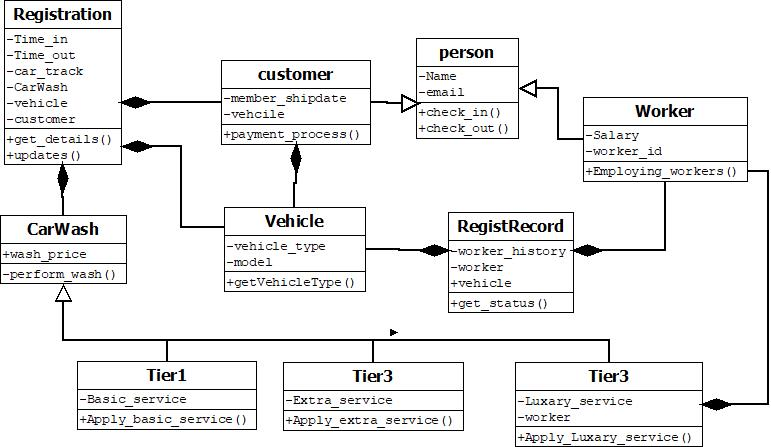
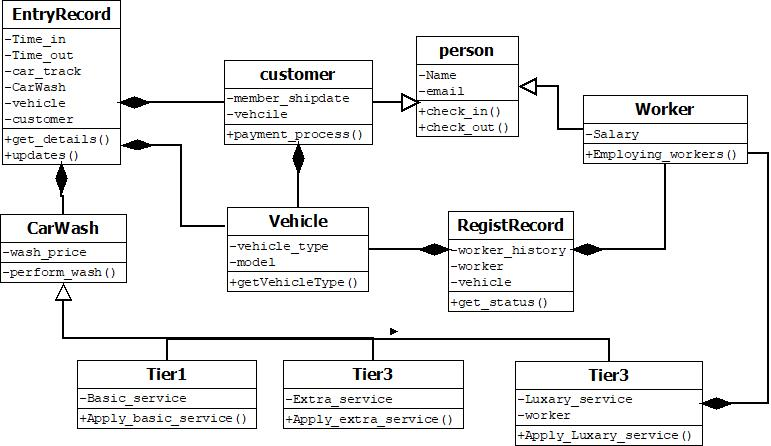
changes updated

diff --git a/carwash.py b/carwash.py
@@ -1,48 +1,14 @@
-from worker import Worker
+# CarWash class
 class CarWash:
     def __init__(self, wash_price):
         self.wash_price = wash_price
 
     def perform_wash(self):
-        if self.wash_price == 100:
-            return "Rs.100 for soap only"
-        elif self.wash_price == 200:
-            return "Rs.200 for soap and polish"
-        elif self.wash_price == 500:
-            return "Rs.500 for soap, polish, and inner clean"
-        else:
-            return "Invalid amount"
+        return (f"100 Rs. for basic wash, "
+                f"200 Rs. for extra wash, "
+                f"500 Rs. for luxury wash")
 
-class Tier1(CarWash):
-    def __init__(self, wash_price):
-        super().__init__(wash_price)
-
-    def apply_basic_service(self):
-        if self.wash_price == 100:
-            return "Applying soap only wash"
-        else:
-            return "Invalid amount"
-
-class Tier2(CarWash):
-    def __init__(self, wash_price):
-        super().__init__(wash_price)
-
-    def apply_extra_service(self):
-        if self.wash_price == 200:
-            return "Applying soap and polish wash"
-        else:
-            return "Invalid amount"
-
-class Tier3(CarWash):
-    def __init__(self, wash_price, worker):
-        super().__init__(wash_price)
-        self.worker = worker  # Has-a Worker
-
-    def apply_luxury_service(self):
-        if self.wash_price == 500:
-            return f"Applying soap, polish, and inner clean wash by {self.worker.get_worker_details()}"
-        else:
-            return "Invalid amount"
+        
 
 
 

diff --git a/worker.py b/worker.py
@@ -1,28 +1,26 @@
-from regist_record import RegistRecord
+from person import Person
 
-class Worker:
-    workers_list = []
-
-    def __init__(self, worker_id, salary, position):
-        self.worker_id = worker_id
+# Worker class
+class Worker(Person):
+    def __init__(self, name, email, salary):
+        super().__init__(name, email)
         self.salary = salary
-        self.position = position
-        self.regist_record = RegistRecord()  # Initialize RegistRecord
-        self.regist_record.add_record(position)
-        Worker.add_worker(self)
+        self.history = []
 
-    @classmethod
-    def add_worker(cls, worker):
-        cls.workers_list.append(worker)
+    def get_detail(self):
+        return f"{self.name} and email: {self.email} and salary: {self.salary}"
 
-    def change_position(self, new_position):
-        self.regist_record.add_record(new_position)
+    def employing_worker(self, position):
+        self.history.append(position)
+        return f"Position {position} added to history."
 
-    def display_details(self):
-        return (f"Worker ID: {self.worker_id}, Salary: {self.salary}, ")
-                #f"Position: {self.position}, {self.regist_record.get_status()}")
+    def show_history(self):
+        if self.history:
+            return f"Position History: {', '.join(self.history)}"
+        else:
+            return "No position history available"
 
-    def display_full_history(self):
-        return self.regist_record.show_history()
+
+
     
 

diff --git a/entryrecord.py b/entryrecord.py
@@ -1,14 +1,15 @@
+from customer import Customer
 from vehicle import Vehicle
 from carwash import CarWash
-from customer import Customer
 
+# EntryRecord class
 class EntryRecord:
-    def __init__(self, time_in, time_out, car_wash: CarWash, customer: Customer, vehicle: Vehicle):
+    def __init__(self, time_in, time_out, wash_price, membership_date, vehicle_type, model):
         self.time_in = time_in
         self.time_out = time_out
-        self.car_wash = car_wash  # Has-a CarWash
-        self.customer = customer  # Has-a Customer
-        self.vehicle = vehicle  # Has-a Vehicle
+        self.car_wash = CarWash(wash_price)
+        self.customer = Customer("John Doe", "john.doe@example.com", membership_date, vehicle_type, model)
+        self.vehicle = Vehicle(vehicle_type, model)
 
     def update(self, time_in, time_out):
         self.time_in = time_in
@@ -16,7 +17,11 @@ class EntryRecord:
         return f"Time In: {self.time_in}, Time Out: {self.time_out} updated"
 
     def get_details(self):
-        return (f"Check IN: {self.time_in}, Time Out: {self.time_out}, "
+        return (f"Check IN: {self.time_in}, Check OUT: {self.time_out}, "
                 f"{self.customer.get_customer_details()}, "
                 f"{self.vehicle.get_vehicle_details()}, "
                 f"Wash Details: {self.car_wash.perform_wash()}")
+
+
+
+

diff --git a/main.py b/main.py
@@ -1,22 +1,18 @@
-# main.py
-from vehicle import Vehicle
-from customer import Customer
-from carwash import Tier3
 from worker import Worker
+from tier1 import Tier1
+from tier2 import Tier2
+from tier3 import Tier3
 from entryrecord import EntryRecord
 
-# examples uses
 if __name__ == "__main__":
-    # Creating objects
-    vehicle = Vehicle("Hybrid", "2024")
-    customer = Customer("Ali", "haider2@gmail.com", "11-11-2023", vehicle)
-    worker = Worker(123, 88000, "Accountant")
-    car_wash = Tier3(500, worker)
-    entry = EntryRecord("10:00 AM", "11:00 AM", car_wash, customer, vehicle)
-    worker1 = Worker(234, 33000, "Manager")
+    worker = Worker("Abdullah", "abdullah@example.com", 3000)
+    tier1 = Tier1(basic_service=100)
+    tier2 = Tier2(extra_service=200)
+    tier3 = Tier3(500, name="Abdullah", email="haider@122",salary=5500)
+    entry_record = EntryRecord("09:00 AM", "10:00 AM", 500, "2024-01-01", "Sedan", "Model X")
 
-    # Output details
-    print(entry.get_details())
-    print(worker1.display_details())
-    print(worker1.display_full_history())
-
+    print(worker.get_detail())
+    print(tier1.perform_wash())
+    print(tier2.perform_wash())
+    print(tier3.perform_wash())
+    print(entry_record.get_details())

diff --git a/regist_record.py b/regist_record.py
@@ -1,19 +1,27 @@
+from vehicle import Vehicle
+from worker import Worker
+
 class RegistRecord:
-    def __init__(self):
-        # Store the history and positions
+    def __init__(self, vehicle_type,model,salary,id):
         self.history = []
+        self.vehicle = Vehicle(vehicle_type,model) 
+        self.worker = Worker(salary,id)    
 
     def add_record(self, position):
         self.history.append(position)
+        return (f"your current position is Added {self.history} ")
 
     def get_status(self):
         if self.history:
-            return f"Current Position: {self.history[-1]}"  # Last added position is the current one
+            return f"Current Position: {self.history[-1]}"  # Last added is the current position
         else:
             return "No position assigned"
 
     def show_history(self):
         if self.history:
-            return f"Position History: {', '.join(self.history)}"
+            return f"Position History: {', '.join(self.history)},{self.worker.display_details()}"
         else:
             return "No position history available"
+
+       
+

diff --git a/customer.py b/customer.py
@@ -1,18 +1,19 @@
-# customer.py
 from person import Person
 from vehicle import Vehicle
 
+# Customer class
 class Customer(Person):
-    def __init__(self, name, email, membership_date, vehicle=None):
+    def __init__(self, name, email, membership_date, vehicle_type, model):
         super().__init__(name, email)
         self.membership_date = membership_date
-        self.vehicle = vehicle
-    
+        self.vehicle = Vehicle(vehicle_type, model)
+
     def payment_process(self, amount):
         return f"{self.name}, your final amount is {amount}"
-    
+
     def get_customer_details(self):
-        # Correct method call
-        vehicle_details = self.vehicle.get_vehicle_details() if self.vehicle else "No vehicle assigned"
-        return (f"Name: {self.name}  Email: {self.email}  Membership Date: {self.membership_date}  Vehicle: {vehicle_details}")
+        return (f"Name: {self.name}, Email: {self.email}, "
+                f"Membership Date: {self.membership_date}, "
+                f"Vehicle: {self.vehicle.get_vehicle_details()}")
+
 

diff --git a/vehicle.py b/vehicle.py
@@ -1,15 +1,3 @@
-# # vehicle.py
-# class Vehicle:
-#     def __init__(self, vehicle_type, model):
-#         self.vehicle_type = vehicle_type
-#         self.model = model
-
-#     def get_vehicle_details(self):
-#         return f"Your vehicle type is: '{self.vehicle_type}'  and model number is:'{self.model}'"
-
-# vehicle=Vehicle("Hybrid",2024)
-# print(vehicle.get_vehicle_details())
-# vehicle.py
 class Vehicle:
     def __init__(self, vehicle_type, model):
         self.vehicle_type = vehicle_type
@@ -17,4 +5,5 @@ class Vehicle:
 
     def get_vehicle_details(self):
         return f"Your vehicle type is: '{self.vehicle_type}' and model number is: '{self.model}'"
+
 

diff --git a/tier3.py b/tier3.py
@@ -1,0 +1,13 @@
+from worker import Worker
+from carwash import CarWash
+class Tier3(CarWash):
+    def __init__(self, luxury_service, name, email, salary):
+        super().__init__(luxury_service)
+        self.luxury_service = luxury_service
+        self.worker = Worker(name, email, salary)
+
+    def perform_wash(self):
+        if self.luxury_service == 500:
+            return f"Applying soap, polish, and inner clean by {self.worker.get_detail()}"
+        else:
+            return "Invalid amount"

diff --git a/tier2.py b/tier2.py
@@ -1,0 +1,11 @@
+from carwash import CarWash
+class Tier2(CarWash):
+    def __init__(self, extra_service):
+        super().__init__(extra_service)
+        self.extra_service = extra_service
+
+    def perform_wash(self):
+        if self.extra_service == 200:
+            return "Applying soap and polish wash"
+        else:
+            return "Invalid amount"

diff --git a/tier1.py b/tier1.py
@@ -1,0 +1,11 @@
+from carwash import CarWash
+class Tier1(CarWash):
+    def __init__(self, basic_service):
+        super().__init__(basic_service)
+        self.basic_service = basic_service
+
+    def perform_wash(self):
+        if self.basic_service == 100:
+            return "Applying soap only wash"
+        else:
+            return "Invalid amount"

diff --git a/person.py b/person.py
@@ -1,10 +1,15 @@
+
 class Person:
     def __init__(self, name, email):
-        self.email = email
         self.name = name
+        self.email = email
 
     def check_in(self):   
         return f"{self.name} is checked IN"
-    
+
     def check_out(self):   
         return f"{self.name} is checked OUT"
+
+
+
+
